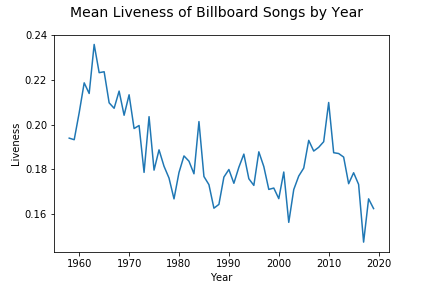
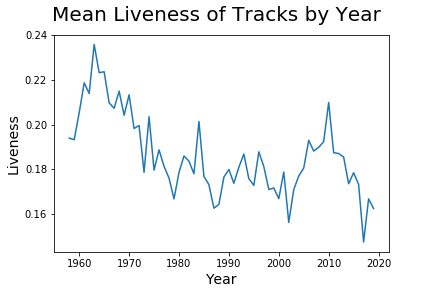
hypothesis testing

Changed region(s): [[0.1204, 0.0, 0.8727, 0.0938], [0.0, 0.4062, 0.0602, 0.625], [0.4815, 0.9375, 0.5417, 1.0]]

diff --git a/spotify-billboard-analysis.py b/spotify-billboard-analysis.py
@@ -66,9 +66,10 @@ ax.bar(np.arange(30), genresJoined['SongID'].iloc[0:30])
 ax.set_xticks(np.arange(30))
 ax.set_xticklabels(genresJoined['spotify_genre'][0:30], rotation=45, ha="right",
                    rotation_mode="anchor")
-ax.set_xlabel("Genre")
+ax.set_xlabel("Genre", fontsize=14)
+ax.set_ylabel("Frequency", fontsize=14)
 fig.tight_layout()
-fig.suptitle("Frequency of Genres of Billboard Songs", fontsize=20)
+fig.suptitle("Frequency of Genres of Tracks", fontsize=20)
 fig.subplots_adjust(top=0.9)
 fig.savefig("images/genresJoined.png")
 
@@ -80,12 +81,12 @@ fig, ax = plt.subplots(figsize=(12, 6))
 ax.bar(np.arange(30), genres['SongID'].iloc[0:30])
 ax.set_xticks(np.arange(30))
 ax.set_xticklabels(genres['spotify_genre'][0:30], rotation=45, ha="right", rotation_mode="anchor")
-ax.set_xlabel("Genre")
+ax.set_xlabel("Genre", fontsize=14)
+ax.set_ylabel("Frequency", fontsize=14)
 fig.tight_layout()
-fig.suptitle("Frequency of Genres of Billboard Songs (Unique)", fontsize=20)
+fig.suptitle("Frequency of Genres of Tracks (Unique)", fontsize=20)
 fig.subplots_adjust(top=0.9)
 fig.savefig("images/genres.png")
-
 
 
 # Frequency of genres by decade
@@ -102,10 +103,9 @@ for i, ax in enumerate(axs.flat):
                        rotation_mode="anchor")
     ax.set_title(decades[i], fontsize="large")
 fig.tight_layout()
-fig.suptitle("Frequency of Genres of Billboard Songs by Decade", fontsize=28)
+fig.suptitle("Frequency of Genres of Tracks by Decade", fontsize=28)
 fig.subplots_adjust(top=0.9)
 fig.savefig("images/genresJoinedDecade.png")
-
 
 
 '''
@@ -129,11 +129,10 @@ ax.set_xticks(np.arange(len(decades)))
 ax.set_xticklabels(decades, fontsize="large", rotation=45, ha="right", rotation_mode="anchor")
 handles, labels = ax.get_legend_handles_labels()
 ax.legend(handles, labels, loc='upper center')
-fig.suptitle("Frequency of Genres of Billboard Songs by Decade", fontsize=28)
+fig.suptitle("Frequency of Genres of Tracks by Decade", fontsize=28)
 fig.subplots_adjust(top=0.9)
 fig.savefig("images/genresJoinedDecade.png")
 '''
-
 
 # Explicitness
 explicitness = joined[['Year', 'spotify_track_explicit']].dropna()
@@ -141,8 +140,9 @@ explicitness['num'] = explicitness['spotify_track_explicit'].astype(int)
 explicitness = explicitness.groupby(['Year']).aggregate(np.nanmean).reset_index()
 fig, ax = plt.subplots()
 ax.plot(explicitness['Year'], explicitness['num'])
-ax.set_xlabel("Year")
-fig.suptitle("Explicitness of Billboard Songs", fontsize=14)
+ax.set_xlabel("Year", fontsize=14)
+ax.set_ylabel("Proportion of explicit songs", fontsize=14)
+fig.suptitle("Explicitness of Tracks", fontsize=20)
 fig.savefig("images/explicitness.png")
 
 
@@ -152,9 +152,9 @@ numericalMetrics = joined[numericals].groupby(['Year']).aggregate(np.nanmean).re
 for metric in numericalMetrics.columns.tolist()[1:]:
     fig, ax = plt.subplots()
     ax.plot(numericalMetrics['Year'], numericalMetrics[metric])
-    ax.set_xlabel("Year")
-    ax.set_ylabel("{}".format(metric.capitalize()))
-    fig.suptitle("Mean {} of Billboard Songs by Year".format(metric.capitalize()), fontsize=14)
+    ax.set_xlabel("Year", fontsize=14)
+    ax.set_ylabel("{}".format(metric.capitalize()), fontsize=14)
+    fig.suptitle("Mean {} of Tracks by Year".format(metric.capitalize()), fontsize=20)
     fig.savefig("images/{}.png".format(metric))
 
 
@@ -173,11 +173,11 @@ for pair in dualPlotsNormal:
     fig, ax = plt.subplots()
     ax.plot(numericalMetrics['Year'], numericalMetrics[pair[0]])
     ax.plot(numericalMetrics['Year'], numericalMetrics[pair[1]])
-    ax.set_xlabel("Year")
-    ax.set_ylabel("{}".format("Value"))
+    ax.set_xlabel("Year", fontsize=12)
+    ax.set_ylabel("{}".format("Value"), fontsize=12)
     ax.legend([pair[0].capitalize(), pair[1].capitalize()])
-    fig.suptitle("Mean {} and {} of Billboard Songs by Year".format(pair[0].capitalize(),
-                 pair[1].capitalize()), fontsize=12)
+    fig.suptitle("{} and {} of Tracks by Year".format(pair[0].capitalize(),
+                 pair[1].capitalize()), fontsize=18)
     fig.savefig("images/{}and{}.png".format(pair[0], pair[1]))
 
 
@@ -189,12 +189,15 @@ for i, pair in enumerate(dualPlotsMixed):
     l1 = ax.plot(numericalMetrics['Year'], numericalMetrics[pair[0]])
     ax2 = ax.twinx()
     l2 = ax2.plot(numericalMetrics['Year'], numericalMetrics[pair[1]], color="C1")
-    ax.set_xlabel("Year")
-    ax.set_ylabel(pair[0])
-    ax2.set_ylabel(pair[1])
+    ax.set_xlabel("Year", fontsize=14)
+    ax.set_ylabel(pair[0].capitalize(), fontsize=14)
+    if pair[1] == 'Loudness':
+        ax2.set_ylabel("Loudness (dB)", fontsize=14)
+    elif pair[1] == 'tempo':
+        ax2.set_ylabel("Tempo (bpm)", fontsize=14)
     fig.legend([pair[0].capitalize(), pair[1].capitalize()], bbox_to_anchor=legendLocations[i])
-    fig.suptitle("Mean {} and {} of Billboard Songs by Year".format(pair[0].capitalize(),
-                 pair[1].capitalize()), fontsize=12)
+    fig.suptitle("{} and {} of Tracks by Year".format(pair[0].capitalize(),
+                 pair[1].capitalize()), fontsize=18)
     fig.savefig("images/{}and{}.png".format(pair[0], pair[1]))
 
 
@@ -203,13 +206,13 @@ scatterplots = dualPlotsNormal + dualPlotsMixed
 for pair in scatterplots:
     fig, ax = plt.subplots()
     ax.scatter(featuresNoNulls[pair[0]], featuresNoNulls[pair[1]])
-    ax.set_xlabel(pair[0].capitalize())
-    ax.set_ylabel(pair[1].capitalize())
-    fig.suptitle("{} vs {} of Billboard Songs".format(pair[0].capitalize(), pair[1].capitalize()),
-                 fontsize=14)
+    ax.set_xlabel(pair[0].capitalize(), fontsize=14)
+    ax.set_ylabel(pair[1].capitalize(), fontsize=14)
+    fig.suptitle("{} vs {} of Tracks".format(pair[0].capitalize(), pair[1].capitalize()),
+                 fontsize=20)
     fig.savefig("images/{}vs{}Scatter.png".format(pair[0], pair[1]))
     r2 = stats.pearsonr(featuresNoNulls[pair[0]], featuresNoNulls[pair[1]])[0]
-    print("\nR^2 of " + pair[0] + " and " + pair[1] + " is " + str(r2))
+    print("R^2 of " + pair[0] + " and " + pair[1] + " is " + str(r2))
 
 
 # Hypothesis test

diff --git a/README.md b/README.md
@@ -105,7 +105,7 @@ This graph shows the mean track duration (seconds) of songs in a time series ove
 ![Energy](/images/energy.png)
 ![Loudness](/images/loudness.png)
 
-These graphs show the mean danceability, energy, and loudness (dB) of songs in a time series over the time period.  These are typically characteristics of upbeat songs.  Over the past few decades the music people listen to has gotten significantly more upbeat than before, resulting in similar upward trends of these metrics.  The most notable changes were around 1980 and 2000.
+These graphs show the mean danceability, energy, and loudness (decibels) of songs in a time series over the time period.  These are typically characteristics of upbeat songs.  Over the past few decades the music people listen to has gotten significantly more upbeat than before, resulting in similar upward trends of these metrics.  The most notable changes were around 1980 and 2000.
 
 ### Speechiness and Instrumentalness
 
@@ -136,7 +136,7 @@ This graph shows the mean valence of songs in a time series over the time period
 
 ![Tempo](/images/tempo.png)
 
-This graph shows the mean tempo of songs in a time series over the time period.  Interestingly, since the danceability, energy, and loudness of songs had a definitive increase, one would expect tempo to have an increase as well.  However, the average tempo had little net change over the years; it went up and down many times but only ended up a little bit above the initial values in the 1950s.
+This graph shows the mean tempo (beats per minute) of songs in a time series over the time period.  Interestingly, since the danceability, energy, and loudness of songs had a definitive increase, one would expect tempo to have an increase as well.  However, the average tempo had little net change over the years; it went up and down many times but only ended up a little bit above the initial values in the 1950s.
 
 &nbsp;
 
@@ -193,9 +193,35 @@ These graphs compare energy and tempo, both as a function of time and against ea
 
 ## Hypothesis Testing
 
-We use a Mann-Whitney U-test because the variables are not normally distributed.
+Hypothesis testing was done on the metrics that were closest to normally distributed, which were energy, danceability, loudness, valence, and tempo.  The two-sample t-test and Mann-Whitney U-test were both used.  
+
+### Hypothesis Test Setup
+
+H<sub>0</sub> = Music today has the same energy, danceability, loudness, valence, and tempo as music of 60 years ago.
+
+H<sub>a</sub> = Music today does not have the same energy, danceability, loudness, valence, and tempo as music of 60 years ago.
+
+$\alpha$ = 0.05, can be set to 0.02 if we want an even higher level of certainty.
+
+### Two-sample t-test Results
+
+Energy: u = -138.0755, p = 0.0
+Danceability: u = -121.4532, p = 0.0
+Loudness: u = -245.8457, p = 0.0
+Valence: u = 114.6155, p = 0.0
+Tempo: u = -14.3916, p = 6.559112204592384e-47
+
+### Mann-Whitney U-test Results
+
+Energy: u = 5.6794056e8, p = 0.0
+Danceability: u = 6.2678145e8, p = 0.0
+Loudness: u = 2.5575936e8, p = 0.0
+Valence: u = 1.5164469e9, p = 0.0
+Tempo: u = 1.0079646e9, p = 2.7332407119580174e-62
 
 &nbsp;
+
+
 
 ## Conclusion
 
